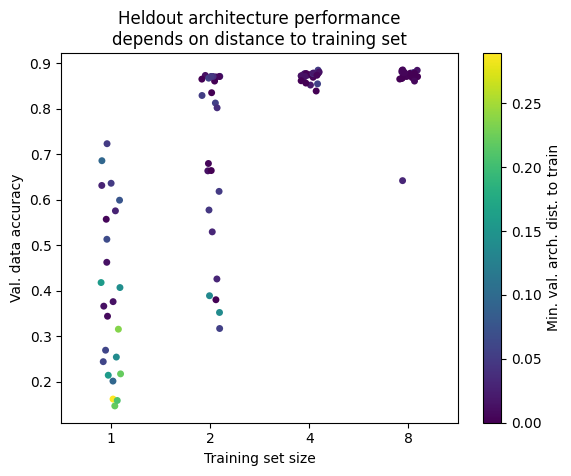
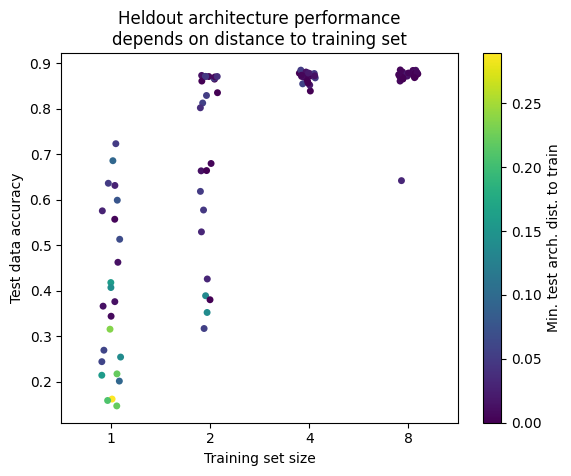
update figs add text

diff --git a/metanca/index.html b/metanca/index.html
@@ -191,8 +191,54 @@ training set. Each run is repeated 3 different times.
 <p>
 After training, we evaluate each model by generating weights for 8 different validation architectures
 and computing their accuracy on the FashionMNIST test set.
+As a baseline, we train every possible architecture in the described set to convergence using the
+Adam optimizer. 
+
 </p>
 <h3>Results</h3>
+<p>
+We first calculated the average test accuracy across all heldout architectures (<a href="#fig1">Fig. 1</a>).
+A clear trend is depicted, showing that more architectures begets better performance, saturating 
+at the Adam baseline.
+</p>
+<figure id="fig1">
+<embed src="assets/img/fashion_mnist_fixed_depth.png" alt="Heldout architecture performance"/>
+<figcaption>Average test accuracy across all test architectures for each training setting.
+Black lines correspond to the 95% CI based on 3 independent repititions.
+</figcaption>
+</figure>
+</p>
+<p>
+Our intuition on the saturation towards the Adam baseline is that the set of architectures we use
+for training and validation are simply only so capable. MetaNCA recovering the Adam performance is 
+quite positive, considering it manages to find an update rule that does so without gradients.
+</p>
+
+<h4>Heldout architecture distance to training set</h4>
+<p>
+We do notice in <a href="#fig1">Fig. 1</a> that 8 training architectures only manages to <i>narrowly 
+    outperform</i> over 4 architectures.
+This can perhaps be attributed to the size of the <q>universe</q> of architectures in this study is quite small.
+Four random architectures evidently provide enough coverage to generalization to the heldout set.
+<br/><br/>
+To better understand this phenomenon, we calculate the distance of each heldout architecture to each
+training architecture for each repetition, visualized in <a href="#fig2">Fig. 2</a>.
+For this study, we define the architecture distance between two architectures as the cosine distancebetween each of their <q>architecture vectors</q>: 3-dimensional arrays where the value of the i-th postion is the number of hidden units in the i-th layer of the network. 
+<figure id=fig2">
+<embed src="assets/img/fashion_mnist_heldout_arch_perf.png" alt="Distance to training set."/>
+<figcaption>
+Strip plot of per-heldout-architecture test accuracies colored by their minimum cosine distance to the training set.
+</figcaption>
+</figure>
+<br/>
+<a href="#fig2">Fig. 2</a> suggests that indeed, 4 random architectures tends to provide enough support of 
+the architecture universe to achieve near matched performance to 8 architectures.
+This is, of course, not necessarily the case for all sets of architectures.
+We maintain the intuition that more architectures would beget better performance for more complex architecture
+grids.
+</p>
+<h4>
+
 
 <footer class="colophon">
 <p>MetaNCA · <span class="mono">Architecture Generalization with MetaNCA</span>, Meet Barot, Daniel Berenberg &amp; Sina Khajehabdollahi. Code: <a href="https://github.com/Mythos-Scientific/meta-nca">github.com/Mythos-Scientific/meta-nca</a>. Demo and write-up by Mythos Scientific.</p>